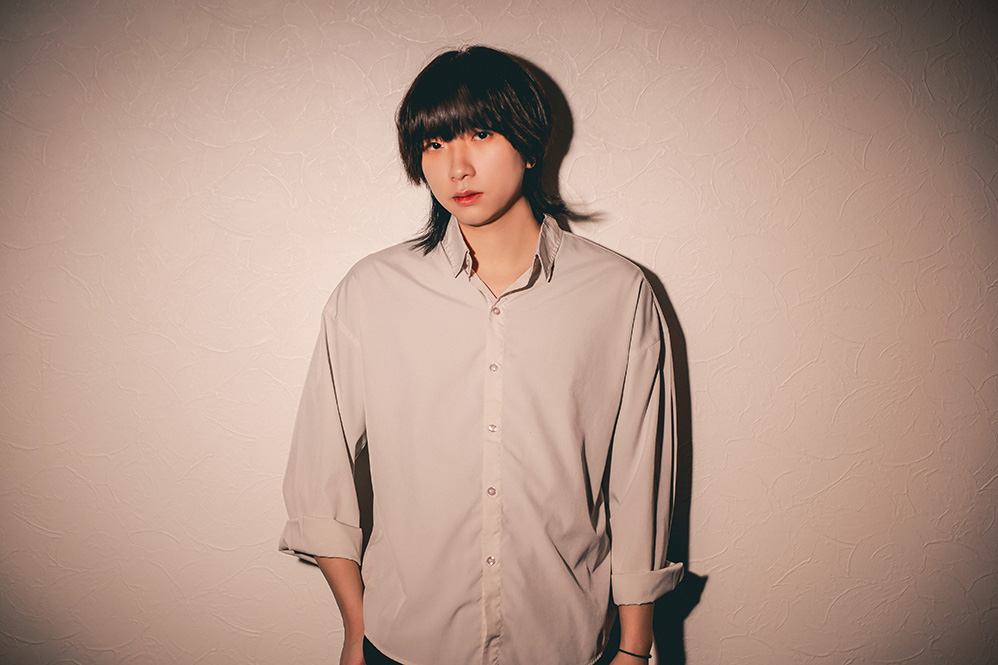
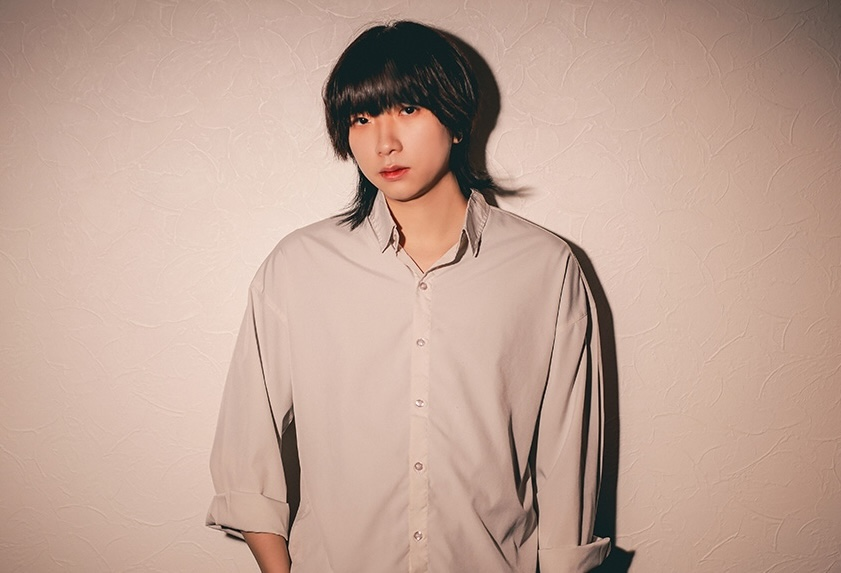
about修正

diff --git a/index.html b/index.html
@@ -32,7 +32,7 @@
             <aside class="l-sidebar">
                 <nav class="p-gnav" aria-label="グローバルナビゲーション">
                     <ul class="p-gnav__list">
-                        <li class="p-gnav__item"><a class="p-gnav__link" href="#about">About</a></li>
+                        <li class="p-gnav__item"><a class="p-gnav__link" href="#">About</a></li>
                         <li class="p-gnav__item">
                             <a class="p-gnav__link" href="#works">Works</a>
                             <ul class="p-gnav__sublist">
@@ -53,55 +53,57 @@
 
             <main class="l-main">
                 <section class="p-about-hero" id="about">
-                    <div class="p-about-hero__body">
-                        <p class="p-about-hero__subname">HONKAWA YUMA</p>
-                        <h1 class="p-about-hero__name">本川悠真</h1>
-                        <div class="p-about-hero__meta-group">
-                            <p class="p-about-hero__meta">東京デザイン専門学校</p>
-                            <p class="p-about-hero__meta">グラフィックデザイン科 Web・映像専攻</p>
+                    <div class="p-about-hero__main-panel">
+                        <div class="p-about-hero__body">
+                            <p class="p-about-hero__name-en">HONKAWA YUMA</p>
+                            <h1 class="p-about-hero__name-ja">本川 悠真</h1>
+                            <div class="p-about-hero__meta-group">
+                                <p class="p-about-hero__meta">東京デザイン専門学校</p>
+                                <p class="p-about-hero__meta">グラフィックデザイン科 Web・映像専攻</p>
+                            </div>
+                        </div>
+    
+                        <div class="p-about-hero__media">
+                            <img class="p-about-hero__image" src="images/about-hero.jpg" alt="本川悠真の近影" />
                         </div>
                     </div>
 
-                    <div class="p-about-hero__media">
-                        <img class="p-about-hero__media-image" src="images/about-hero.jpg" alt="本川悠真の近影" />
-                    </div>
-
                     <div class="p-about-hero__strengths">
-                        <ul class="p-about-hero__list">
-                            <li class="p-about-hero__item">
-                                <div class="p-about-hero__strength-visual">
+                        <ul class="p-about-hero__strength-list">
+                            <li class="p-about-hero__strength-item">
+                                <div class="p-about-hero__strength-media">
                                     <img
                                         class="p-about-hero__strength-image"
                                         src="images/leader.jpg"
-                                        alt="在学中の東京デザイン専門学校の写真"
+                                        alt="音楽同好会の写真"
                                     />
                                 </div>
                                 <div class="p-about-hero__strength-body">
-                                    <p class="p-about-hero__strength-title">チームリーダーの経験数</p>
+                                    <p class="p-about-hero__strength-title">リーダー経験</p>
                                     <p class="p-about-hero__strength-text">
-                                        高校生で生徒会長と吹奏楽部部長を兼任、専門学校では1年次に文化祭執行部副委員長、2年次に文化祭執行部委員長、音楽同好会の部長、卓球同好会の副部長を務めた。
+                                        高校で生徒会長と吹奏楽部部長を経験。専門学校では文化祭執行部委員長、音楽同好会部長、卓球同好会副部長を経験。
                                     </p>
                                 </div>
                             </li>
 
-                            <li class="p-about-hero__item">
-                                <div class="p-about-hero__strength-visual">
+                            <li class="p-about-hero__strength-item">
+                                <div class="p-about-hero__strength-media">
                                     <img
                                         class="p-about-hero__strength-image"
                                         src="images/clientwork.jpg"
-                                        alt="在学中の東京デザイン専門学校の写真"
+                                        alt="実際の過去実績の写真"
                                     />
                                 </div>
                                 <div class="p-about-hero__strength-body">
                                     <p class="p-about-hero__strength-title">クライアントワーク</p>
                                     <p class="p-about-hero__strength-text">
-                                        高校生で生徒会長と吹奏楽部部長を兼任、専門学校では1年次に文化祭執行部副委員長、2年次に文化祭執行部委員長、音楽同好会の部長、卓球同好会の副部長を務めた。
+                                        合同会社アルファの正社員として、写真撮影・広告制作などのクライアント案件を担当。学業と並行して実務を継続している。
                                     </p>
                                 </div>
                             </li>
 
-                            <li class="p-about-hero__item">
-                                <div class="p-about-hero__strength-visual">
+                            <li class="p-about-hero__strength-item">
+                                <div class="p-about-hero__strength-media">
                                     <img
                                         class="p-about-hero__strength-image"
                                         src="images/design.jpg"
@@ -111,10 +113,26 @@
                                 <div class="p-about-hero__strength-body">
                                     <p class="p-about-hero__strength-title">デザイン感覚</p>
                                     <p class="p-about-hero__strength-text">
-                                        高校生で生徒会長と吹奏楽部部長を兼任、専門学校では1年次に文化祭執行部副委員長、2年次に文化祭執行部委員長、音楽同好会の部長、卓球同好会の副部長を務めた。
+                                        東京デザイン専門学校でデザインを体系的に学習。レイアウトや情報設計の判断軸を、コーディングに活かしている。
                                     </p>
                                 </div>
                             </li>
+
+                            <li class="p-about-hero__strength-item">
+                                <div class="p-about-hero__strength-media">
+                                    <img
+                                        class="p-about-hero__strength-image"
+                                        src="images/design.jpg"
+                                        alt="在学中の東京デザイン専門学校の写真"
+                                    />
+                                </div>
+                                <div class="p-about-hero__strength-body">
+                                    <p class="p-about-hero__strength-title">品質への責任感</p>
+                                    <p class="p-about-hero__strength-text">
+                                        前職では製造管理に従事し、ISO・品質規格や環境関連法令を順守し700種類以上の化学薬品の管理など環境業務全般を担当。
+                                </div>
+                            </li>
+
                         </ul>
                     </div>
                 </section>

diff --git a/css/style.css b/css/style.css
@@ -123,13 +123,13 @@ address {
     overflow-y: auto;
     top: 0;
     height: 100vh;
-    padding-block: var(--spacing-900);
-    padding-inline: var(--spacing-300);
+    padding-block: var(--spacing-800);
+    padding-inline: var(--spacing-400);
     border-inline-end: 1px solid rgba(65, 65, 65, 0.1);
 }
 
 .l-main {
-    padding-top: var(--spacing-900);
+    padding-top: var(--spacing-800);
 }
 
 .l-footer {
@@ -164,7 +164,7 @@ address {
 .p-gnav__list {
     display: flex;
     flex-direction: column;
-    gap: var(--spacing-400);
+    gap: var(--spacing-200);
 }
 
 .p-gnav__link {
@@ -188,7 +188,7 @@ address {
 
 .p-gnav__sublink {
     display: block;
-    padding: var(--spacing-400) var(--spacing-700);
+    padding: var(--spacing-300) var(--spacing-700);
     border-radius: var(--radius-200);
     color: var(--color-text-sub);
     background-color: #bfbfbf;
@@ -211,40 +211,51 @@ address {
 
 .p-about-hero {
     display: grid;
-    grid-template-columns: minmax(0, 1fr) minmax(0, 1fr);
-    grid-template-areas:
-        "media strengths"
-        "body .";
-    gap: var(--spacing-400) var(--spacing-800);
+    grid-template-columns: minmax(700px, 1fr) 430px;
+    gap: var(--spacing-500);
+    padding-inline: var(--spacing-600);
+}
+
+.p-about-hero__main-panel {
+    display: grid;
+    grid-template-columns: 350px minmax(400px, 1fr);
+    gap: var(--spacing-200);
     align-items: stretch;
-    background-color: #9f9f9f;
+    background: linear-gradient(135deg, #ffffff 0%, #f7f7f7 100%);
+    border: 1px solid rgba(0, 0, 0, 0.16);
+    border-radius: var(--radius-300);
+    overflow: hidden;
+}
+
+.p-about-hero__body {
+    display: flex;
+    flex-direction: column;
+    justify-content: center;
+    padding-left: var(--spacing-600);
 }
 
 .p-about-hero__media {
-    grid-area: media;
+    min-height: 400px;
     overflow: hidden;
-    border-radius: var(--radius-400);
+    border-radius: var(--radius-300);
+    box-shadow: 0 18px 45px rgba(0, 0, 0, 0.16);
 }
 
-.p-about-hero__media-image {
+.p-about-hero__image {
     width: 100%;
     height: 100%;
     object-fit: cover;
     object-position: center; /* アンカーポイントを中心に */
 }
 
-.p-about-hero__body {
-    grid-area: body;
-}
-
-.p-about-hero__subname {
+.p-about-hero__name-en {
     margin: 0;
     font-size: var(--font-size-200);
     font-weight: 400;
     letter-spacing: var(--letter-spacing-400);
 }
 
-.p-about-hero__name {
+.p-about-hero__name-ja {
     font-size: var(--font-size-750);
     letter-spacing: var(--letter-spacing-200);
     margin: 0;
@@ -262,41 +273,41 @@ address {
     letter-spacing: var(--letter-spacing-300);
 }
 
-.p-about-hero__strengths {
-    grid-area: strengths;
-    height: 100%;
-}
-
-.p-about-hero__list {
+.p-about-hero__strength-list {
     display: grid;
-    gap: var(--spacing-500);
-    height: 100%;
+    gap: var(--spacing-300);
 }
 
-.p-about-hero__item {
+.p-about-hero__strength-item {
     display: grid;
-    grid-template-columns: minmax(150px, 190px) minmax(0, 1fr);
-    gap: var(--spacing-600);
-}
-
-.p-about-hero__strength-visual {
-    aspect-ratio: 5 / 3;
+    grid-template-columns: minmax(136px, 36%) minmax(0, 1fr);
+    gap: var(--spacing-400);
+    background-color: #fff;
+    border-radius: var(--radius-300);
     overflow: hidden;
-    border-radius: var(--radius-400);
+    min-height: 100px;
+}
+
+.p-about-hero__strength-media {
+    min-height: 90px;
+    overflow: hidden;
+    border-radius: var(--radius-300);
+    box-shadow: 0 10px 15px rgba(0, 0, 0, 0.16);
 }
 
 .p-about-hero__strength-image {
     width: 100%;
     height: 100%;
     object-fit: cover;
+    object-position: center;
 }
 
 .p-about-hero__strength-body {
-    padding-block: var(--spacing-100);
+    padding: var(--spacing-200) var(--spacing-300) var(--spacing-300) 0;
 }
 
 .p-about-hero__strength-title {
-    margin: 0;
+    margin: 0 0 var(--spacing-100);
     font-size: var(--font-size-300);
     font-weight: 600;
     letter-spacing: var(--letter-spacing-300);
@@ -304,10 +315,10 @@ address {
 }
 
 .p-about-hero__strength-text {
-    font-size: var(--font-size-200);
-    font-weight: 300;
+    font-size: var(--font-size-100);
+    font-weight: 400;
     letter-spacing: var(--letter-spacing-300);
-    line-height: 1.5;
+    line-height: 1.7;
     color: var(--color-text-sub);
 }
 
